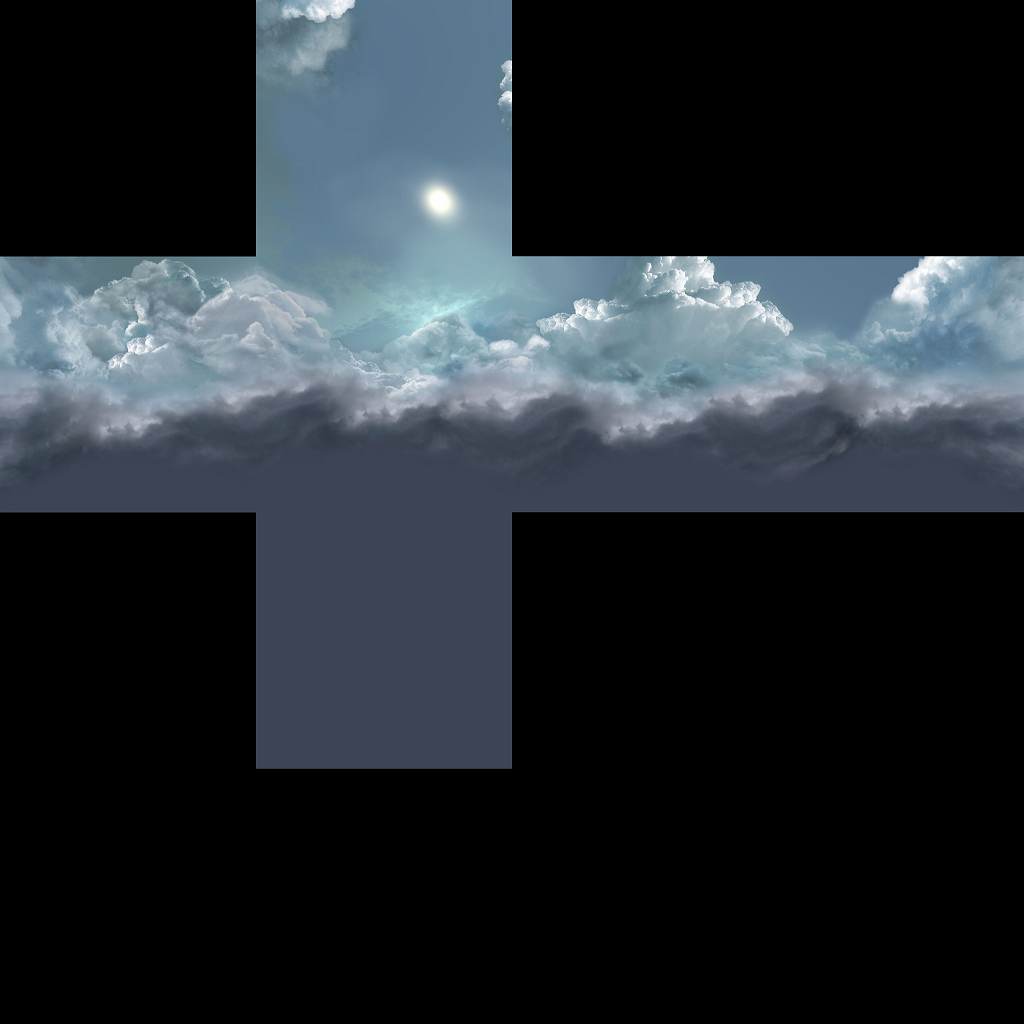
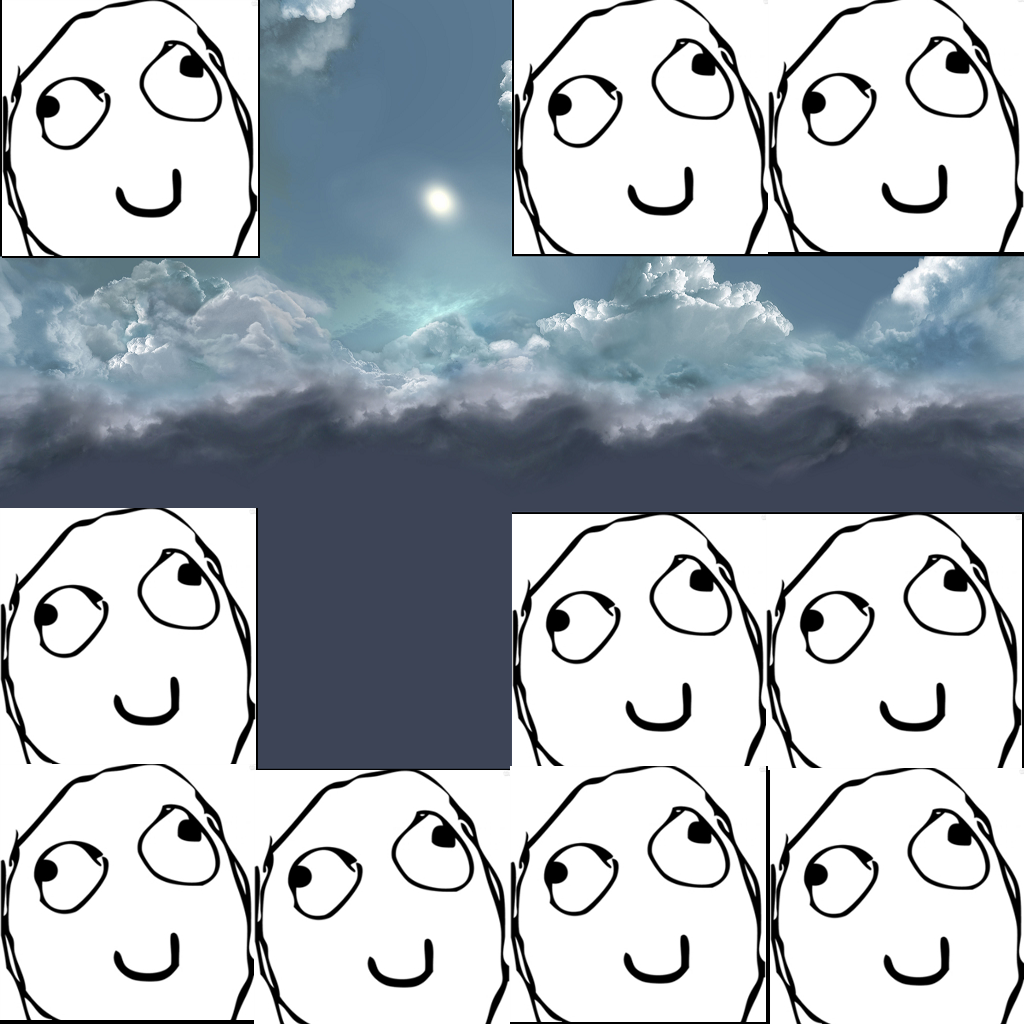
Fixed animated comp, added base methods to base renderer

diff --git a/graph_prog/scene.cpp b/graph_prog/scene.cpp
@@ -13,6 +13,8 @@
 #include <vertex_renderer_comp.h>
 #include <classic_renderer_comp.h>
 #include <base_renderer_comp.h>
+#include <animated_texture_comp.h>
+#include <animated_textures_sys.h>
 
 namespace winapp {
 
@@ -54,19 +56,21 @@ void Scene::initialise(HWND *lwnd, Input* in) {
   initOpenGL(screenRect_.right, screenRect_.bottom); // initialise openGL
 
   // OpenGL settings
-  glShadeModel(GL_SMOOTH);										// Enable Smooth Shading
+  glShadeModel(GL_SMOOTH);										                  // Enable Smooth Shading
   glClearColor(0.3809f, 0.501f, 0.58431f, 0.f);				
-  glClearDepth(1.0f);											// Depth Buffer Setup
-  glEnable(GL_DEPTH_TEST);										// Enables Depth Testing
-  glDepthFunc(GL_LEQUAL);										// The Type Of Depth Testing To Do
-  glHint(GL_PERSPECTIVE_CORRECTION_HINT, GL_NICEST);			// Really Nice Perspective Calculations
-  //glEnable(GL_COLOR_MATERIAL);									// Turn on colour rendering manually
-  glEnable(GL_LIGHTING);										// Enable lighting
-  //glEnable(GL_TEXTURE_2D);										// Enable 2D texturing
+  glClearDepth(1.0f);											                      // Depth Buffer Setup
+  glEnable(GL_DEPTH_TEST);										                  // Enables Depth Testing
+  glDepthFunc(GL_LEQUAL);										                    // The Type Of Depth Testing To Do
+  glHint(GL_PERSPECTIVE_CORRECTION_HINT, GL_NICEST);		        // Really Nice Perspective Calculations
+  //glEnable(GL_COLOR_MATERIAL);								                // Turn on colour rendering manually
+  glEnable(GL_LIGHTING);										                    // Enable lighting
+  glEnable(GL_TEXTURE_2D);										                  // Enable 2D texturing
   glTexEnvf(GL_TEXTURE_ENV, GL_TEXTURE_ENV_MODE, GL_MODULATE);	// Specify texturing mode
-  glBlendFunc(GL_SRC_ALPHA, GL_ONE_MINUS_SRC_ALPHA);							// Set blending function
-  glEnable(GL_CULL_FACE);										// Enable culling
-  glCullFace(GL_BACK);											// Set it for the back faces
+  glTexParameteri(GL_TEXTURE_2D, GL_TEXTURE_WRAP_S, GL_REPEAT); // Default texture behaviour
+  glTexParameteri(GL_TEXTURE_2D, GL_TEXTURE_WRAP_T, GL_REPEAT);
+  glBlendFunc(GL_SRC_ALPHA, GL_ONE_MINUS_SRC_ALPHA);			      // Set blending function
+  glEnable(GL_CULL_FACE);										                    // Enable culling
+  glCullFace(GL_BACK);											                    // Set it for the back faces
 
 
   // Initialise other variables
@@ -143,9 +147,10 @@ void Scene::initialise(HWND *lwnd, Input* in) {
   testTransform->position.set(0.f, 0.f, 0.f);
   testTransform->scale.set(3.f, 3.f, 3.f);
   MaterialComp *testMaterial = new MaterialComp();
-  testMaterial->setAmbient(1.f, 0.f, 1.f, 1.f);
-  testMaterial->setDiffuse(1.f, 0.f, 1.f, 1.f);
   BaseRendererComp *vertexRendererComp = new VertexRendererComp();
+  AnimatedTextureComp *animTextureComp = new AnimatedTextureComp();
+  lnfw::Transform<Texel> animTextTransform(Texel(0.f, 0.15f), Texel(0.f, 10.f), Texel(0.f, 0.f));
+  animTextureComp->setTransform(animTextTransform);
 
   // Add components to entity
   lnfw::Entity *cubeEntity = new lnfw::Entity();
@@ -154,6 +159,7 @@ void Scene::initialise(HWND *lwnd, Input* in) {
   cubeEntity->attachComp(testTextComp);
   cubeEntity->transform = *testTransform;
   cubeEntity->attachComp(vertexRendererComp);
+  cubeEntity->attachComp(animTextureComp);
 
   // Push entity
   entities_.push_back(cubeEntity);
@@ -191,6 +197,9 @@ void Scene::update() {
 
   // Update camera
   camera_->update();
+
+  // Update systems
+  animatedTextureSys_.update(entities_);
 }
 
 void Scene::procInput() {

diff --git a/graph_prog/base_renderer_comp.cpp b/graph_prog/base_renderer_comp.cpp
@@ -1,9 +1,65 @@
 
 // Includes
 #include <base_renderer_comp.h>
+#include <Windows.h>
+#include <gl\GL.h>
 
 namespace winapp {
 
   REGISTER_COMPONENT_IMPL(BaseRendererComp);
+
+  void BaseRendererComp::applyGeometryTransform(const lnfw::Transform<Vec3> *transform,
+      const ShapeComp *shape) {
+    // Move to position
+    glTranslatef(transform->position.getX(),
+                 transform->position.getY(),
+                 transform->position.getZ());
+    // Scale
+    glScalef(transform->scale.getX(),
+             transform->scale.getY(),
+             transform->scale.getZ());
+
+    // Rotate
+    glRotatef(transform->rotation.getX(), 1.f, 0.f, 0.f);
+    glRotatef(transform->rotation.getY(), 0.f, 1.f, 0.f);
+    glRotatef(transform->rotation.getZ(), 0.f, 0.f, 1.f);
+  }
+
+  void BaseRendererComp::applyTextureTransform
+    (const TextureComp *texture) {
+    // If there is a texture
+    if(texture) {
+      glTexParameteri(GL_TEXTURE_2D, GL_TEXTURE_WRAP_S, GL_REPEAT); // Default texture behaviour
+      glTexParameteri(GL_TEXTURE_2D, GL_TEXTURE_WRAP_T, GL_REPEAT);
+
+      // Select the correct matrix
+      glMatrixMode(GL_TEXTURE);
+      // Push the matrix
+      glPushMatrix();
+
+        // Move to position
+        glTranslatef(texture->getTransform().position.x,
+                   texture->getTransform().position.y,
+                   0.f);
+        // Scale
+        glScalef(texture->getTransform().scale.x,
+                 texture->getTransform().scale.y,
+                 1.f);
+
+        // Rotate
+        glRotatef(texture->getTransform().rotation.x, 1.f, 0.f, 0.f);
+        glRotatef(texture->getTransform().rotation.y, 0.f, 1.f, 0.f);
+        //glRotatef(0.f, 0.f, 0.f, 1.f);
+
+      //glPopMatrix();
+      glMatrixMode(GL_MODELVIEW);
+    }
+  }
+
+  void BaseRendererComp::cleanUpTextures() {
+    glMatrixMode(GL_TEXTURE);
+    glPopMatrix();
+    glMatrixMode(GL_MODELVIEW);
+  }
 
 }

diff --git a/graph_prog/vertex_renderer_comp.cpp b/graph_prog/vertex_renderer_comp.cpp
@@ -13,34 +13,27 @@ namespace winapp {
                                         const TextureComp *texture /* = NULL */,
                                         const MaterialComp *material /* = NULL */)
   {
-    // Move to position
-    glTranslatef(transform->position.getX(),
-                 transform->position.getY(),
-                 transform->position.getZ());
-    // Scale
-    glScalef(transform->scale.getX(),
-             transform->scale.getY(),
-             transform->scale.getZ());
-
-    // Rotate
-    glRotatef(transform->rotation.getX(), 1.f, 0.f, 0.f);
-    glRotatef(transform->rotation.getY(), 0.f, 1.f, 0.f);
-    glRotatef(transform->rotation.getZ(), 0.f, 0.f, 1.f);
+    
+    // Apply geometry transform
+    applyGeometryTransform(transform, shape);
 
     // Set material properties for the geometry
     material->apply(GL_FRONT);
 
-    // Deactivate blending
+    // Activate blending
     glEnable(GL_BLEND);
 
     // Bind the texture
     glBindTexture(GL_TEXTURE_2D, texture->getTextureID());
 
+    // Apply textire transforms
+    applyTextureTransform(texture);
+    
+    
     
     //////////RENDER
 
     
-
     // Specify data for the arrays
 
     float *vertices = new float[shape->getVertices().size() * 3];
@@ -98,6 +91,8 @@ namespace winapp {
     delete[] vertices;
     delete[] normals;
     delete[] texels;
+
+    cleanUpTextures();
   }
 
 }

diff --git a/graph_prog/classic_renderer_comp.cpp b/graph_prog/classic_renderer_comp.cpp
@@ -11,19 +11,8 @@ namespace winapp {
     const TextureComp *texture /* = NULL */,
     const MaterialComp *material /* = NULL */)
   {
-    // Move to position
-    glTranslatef(transform->position.getX(),
-      transform->position.getY(),
-      transform->position.getZ());
-    // Scale
-    glScalef(transform->scale.getX(),
-      transform->scale.getY(),
-      transform->scale.getZ());
-
-    // Rotate
-    glRotatef(transform->rotation.getX(), 1.f, 0.f, 0.f);
-    glRotatef(transform->rotation.getY(), 0.f, 1.f, 0.f);
-    glRotatef(transform->rotation.getZ(), 0.f, 0.f, 1.f);
+    // Apply geometry transform
+    applyGeometryTransform(transform, shape);
 
     // Set material properties for the geometry
     material->apply(GL_FRONT);
@@ -31,8 +20,11 @@ namespace winapp {
     // Activate blending
     glEnable(GL_BLEND);
 
-    //// Bind the texture
+    // Bind the texture
     glBindTexture(GL_TEXTURE_2D, texture->getTextureID());
+
+    // Apply textire transforms
+    applyTextureTransform(texture);
 
     //////////RENDER
 
@@ -58,6 +50,7 @@ namespace winapp {
     // Deactivate blending
     glDisable(GL_BLEND);
 
+    cleanUpTextures();
   }
 
 }

diff --git a/graph_prog/animated_texture_sys.cpp b/graph_prog/animated_texture_sys.cpp
@@ -15,12 +15,12 @@ namespace winapp {
     for(constEntitiesItor_ entityitor = entities.begin(); entityitor != entities.end(); ++entityitor) {
       // If the entity has the required component(s)
       if(((*entityitor)->hasComp(abfw::CRC::GetICRC("AnimatedTextureComp"))) &&
-         ((*entityitor)->hasComp(abfw::CRC::GetICRC("Texture")))) { 
+         ((*entityitor)->hasComp(abfw::CRC::GetICRC("TextureComp")))) { 
         // Retrieve the component(s)
         AnimatedTextureComp *animatedTextureComp = (AnimatedTextureComp *)(*entityitor)->
           getComp(abfw::CRC::GetICRC("AnimatedTextureComp"));
         TextureComp *textureComp = (TextureComp *)(*entityitor)->
-          getComp(abfw::CRC::GetICRC("TextureComp"));
+          getComp(abfw::CRC::GetICRC("TextureComp")); 
 
         // Update the texture component
         lnfw::Transform<Texel> velocityStep = 
@@ -28,6 +28,8 @@ namespace winapp {
 
         lnfw::Transform<Texel> textureTransform = textureComp->getTransform();
         textureComp->setTransform(textureTransform + velocityStep);
+
+        // Check for overflows
 
 
       }

diff --git a/graph_prog/base_renderer_comp.h b/graph_prog/base_renderer_comp.h
@@ -20,6 +20,17 @@ namespace winapp {
       const ShapeComp *shape,
       const TextureComp *texture = NULL,
       const MaterialComp *material = NULL) = 0;
+
+  protected:
+    // Apply transform to shape
+    void applyGeometryTransform(const lnfw::Transform<Vec3> *transform,
+      const ShapeComp *shape);
+
+    // Apply texture transform to texture
+    void applyTextureTransform(const TextureComp *texture);
+
+    // Clean up matrix stack for textures
+    void cleanUpTextures();
   };
   // EO Class
 

diff --git a/graph_prog/scene.h b/graph_prog/scene.h
@@ -23,6 +23,8 @@
 #include <list>
 #include <lnfw/entities/entity.h>
 #include <rendering_sys.h>
+#include <animated_textures_sys.h>
+
 
 
 namespace winapp {
@@ -115,6 +117,7 @@ protected:
 
   // Systems
   RenderingSys renderingSystem_;
+  AnimatedTextureSys animatedTextureSys_;
 
   // For moving object
   unsigned int xpos, ypos;

diff --git a/graph_prog/texture_comp.cpp b/graph_prog/texture_comp.cpp
@@ -7,7 +7,8 @@ namespace winapp {
   REGISTER_COMPONENT_IMPL(TextureComp);
 
   TextureComp::TextureComp(GLuint textureID) :
-    textureID_(textureID)
+    textureID_(textureID),
+    transform_(Texel(0.f, 0.f), Texel(0.f, 0.f), Texel(1.f, 1.f))
   {
 
   }
